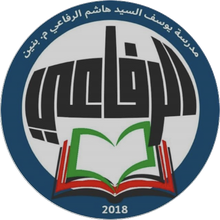
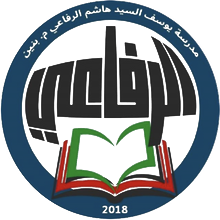
الرأس: شعار المدرسة بحجم شعار الوزارة مع اسمها تحته وتحسين تباينه، وحذف سطر وزارة التربية المكرر
Claude-Session: https://claude.ai/code/session_01X9exafDkmpsUFEoxUUd5gK

diff --git a/index.html b/index.html
@@ -82,10 +82,13 @@
     <header class="head">
       <div class="gov">
         <img src="img/moe.png" alt="">
-        <div>وزارة التربية<br>منطقة العاصمة التعليمية<br>مدرسة يوسف السيد هاشم الرفاعي م. بنين</div>
+        <div>منطقة العاصمة التعليمية</div>
       </div>
       <h1>نموذج استئذان</h1>
-      <img class="logo" src="img/school.png" alt="">
+      <div class="sch">
+      <img src="img/school.png" alt="">
+      <div>مدرسة يوسف السيد هاشم الرفاعي م. بنين</div>
+    </div>
     </header>
 
     <section class="box row">

diff --git a/css/style.css b/css/style.css
@@ -32,7 +32,8 @@ body{margin:0;background:#d9dbdd;font:16px/1.5 Tahoma,"Noto Sans Arabic",Arial,s
 .head{display:flex;align-items:center;justify-content:space-between;gap:8px}
 .gov{display:flex;flex-direction:column;gap:1mm;font-size:13px;line-height:1.5}
 .gov img{width:22mm}
-.logo{width:24mm}
+.sch{display:flex;flex-direction:column;align-items:center;gap:1mm;width:36mm;font-size:12px;line-height:1.4;text-align:center}
+.sch img{width:22mm}
 .sheet h1{margin:0;font-size:32px;font-weight:400}
 h2{margin:5mm 0 2mm;font-size:16px;text-align:center}
 

diff --git a/sw.js b/sw.js
@@ -1,5 +1,5 @@
 // خلية العمل دون إنترنت: شبكة أولاً ثم كاش. غيّر CACHE عند أي تعديل، وأضف أي ملف جديد لـ FILES.
-const CACHE = 'istithan-v13';
+const CACHE = 'istithan-v14';
 const FILES = [
   './', 'index.html', 'css/style.css', 'manifest.webmanifest',
   'js/early.js', 'js/main.js', 'js/grid.js', 'js/store.js', 'js/form.js', 'js/sheet.js', 'js/drag.js',
